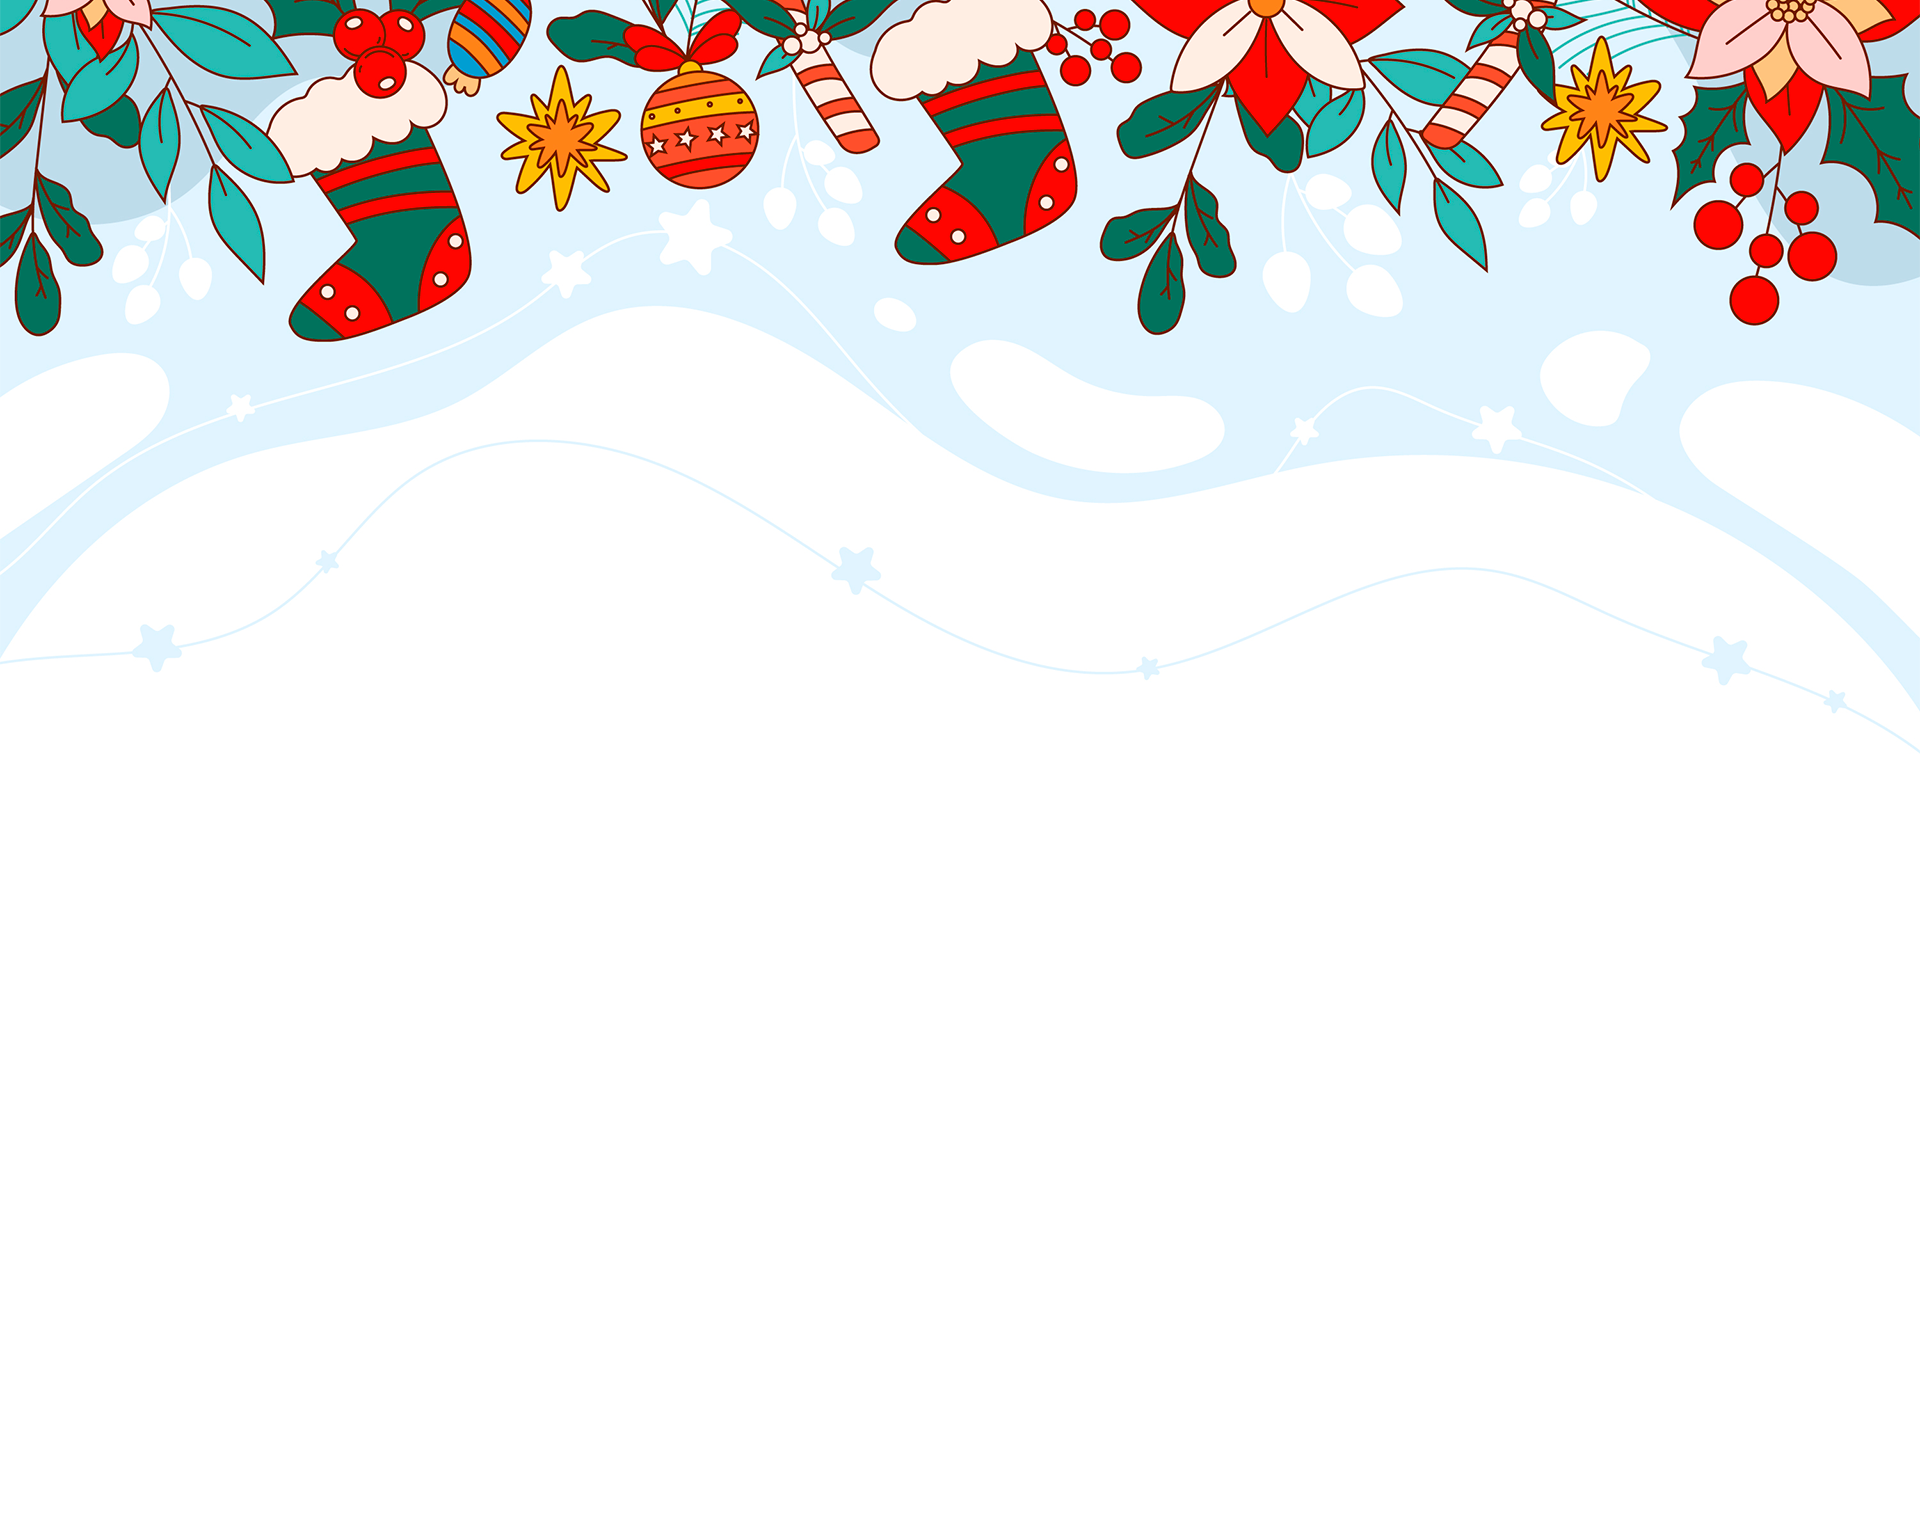
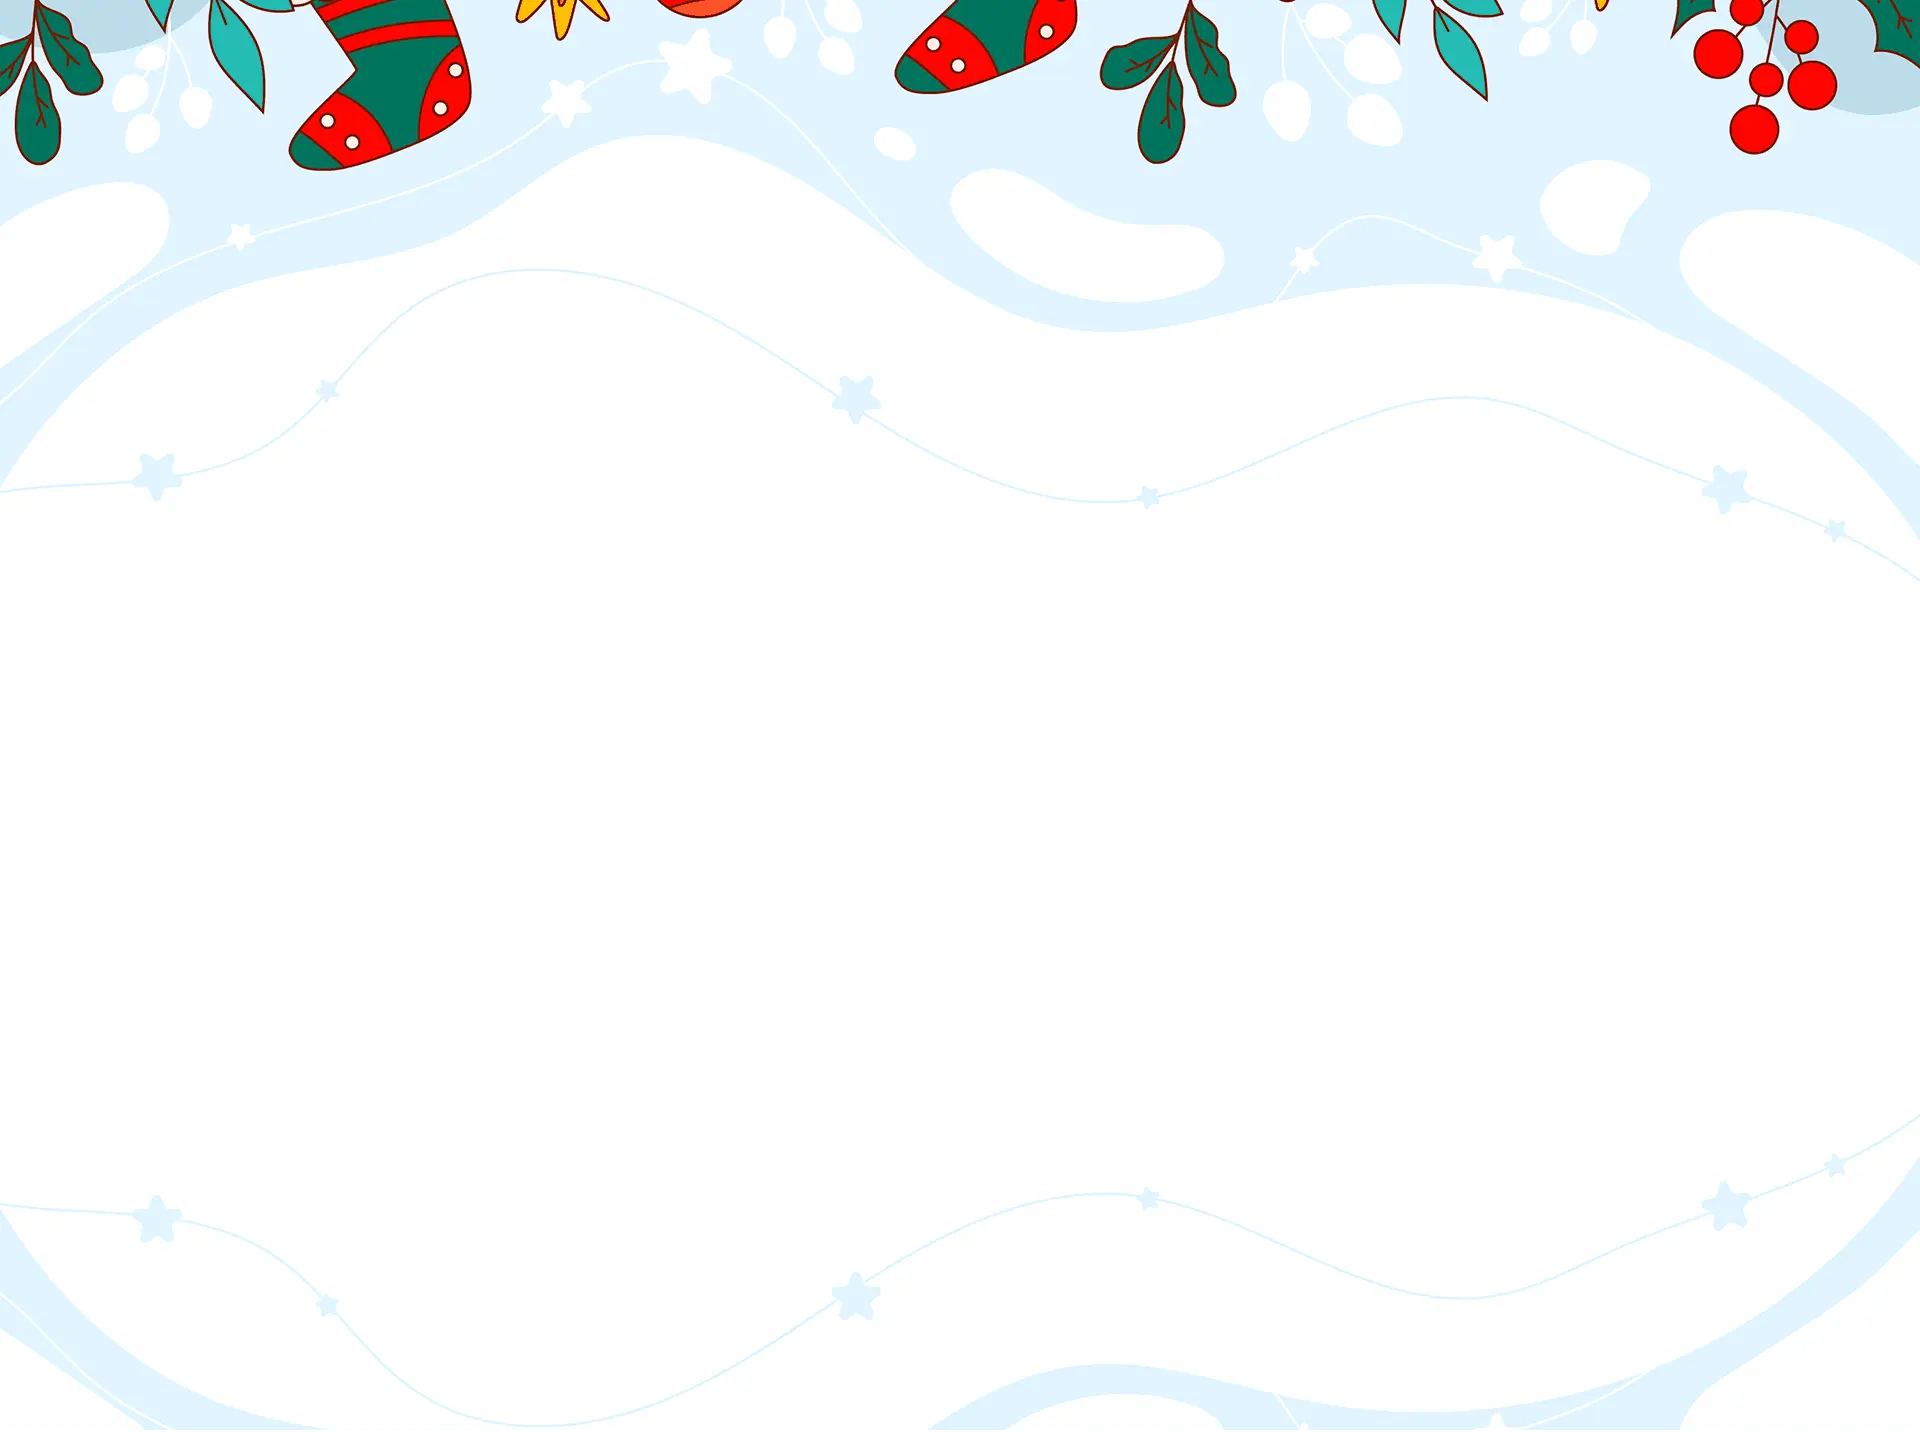
optimize images

diff --git a/frontend/src/index.css b/frontend/src/index.css
@@ -8,7 +8,7 @@
   font-weight: 400;
   position: relative;
   background-size: 100% 100%;
-  background-image: url("background.png");
+  background-image: url("background.webp");
   background-size: auto;
   background-position: top left;
   background-repeat: no-repeat;

diff --git a/frontend/src/App.jsx b/frontend/src/App.jsx
@@ -138,7 +138,7 @@ function App() {
       </div>
       <div>
         <img
-          src={"christmas-tree.png"}
+          src={"christmas-tree.webp"}
           style={{
             position: "absolute",
             height: "90vh",
